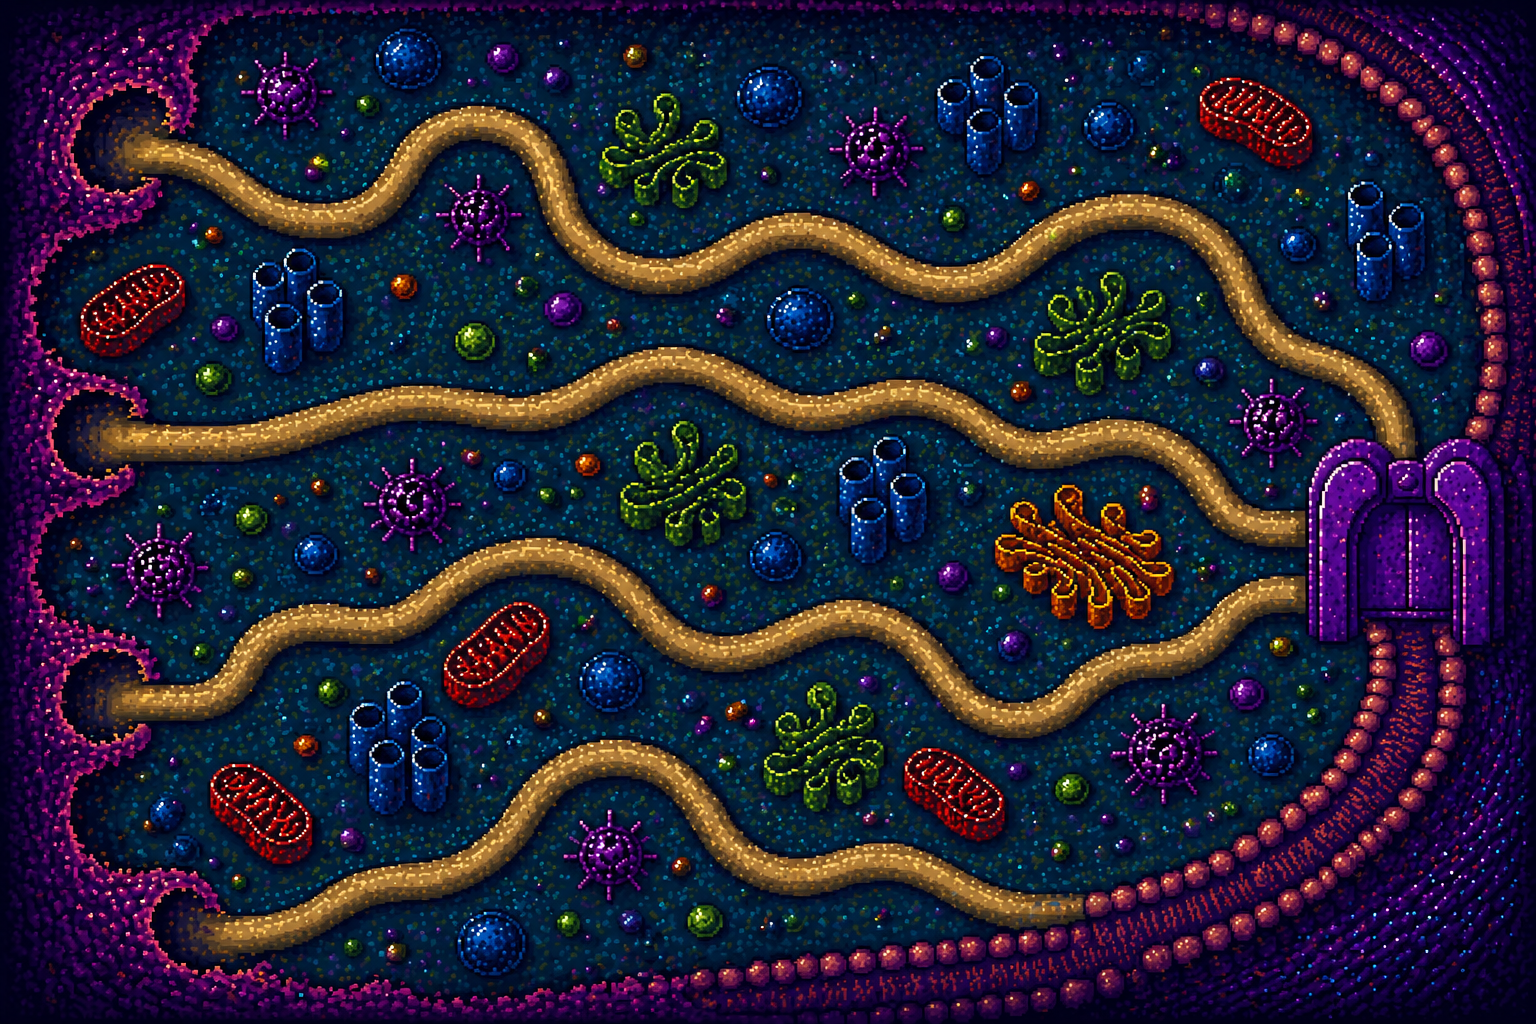
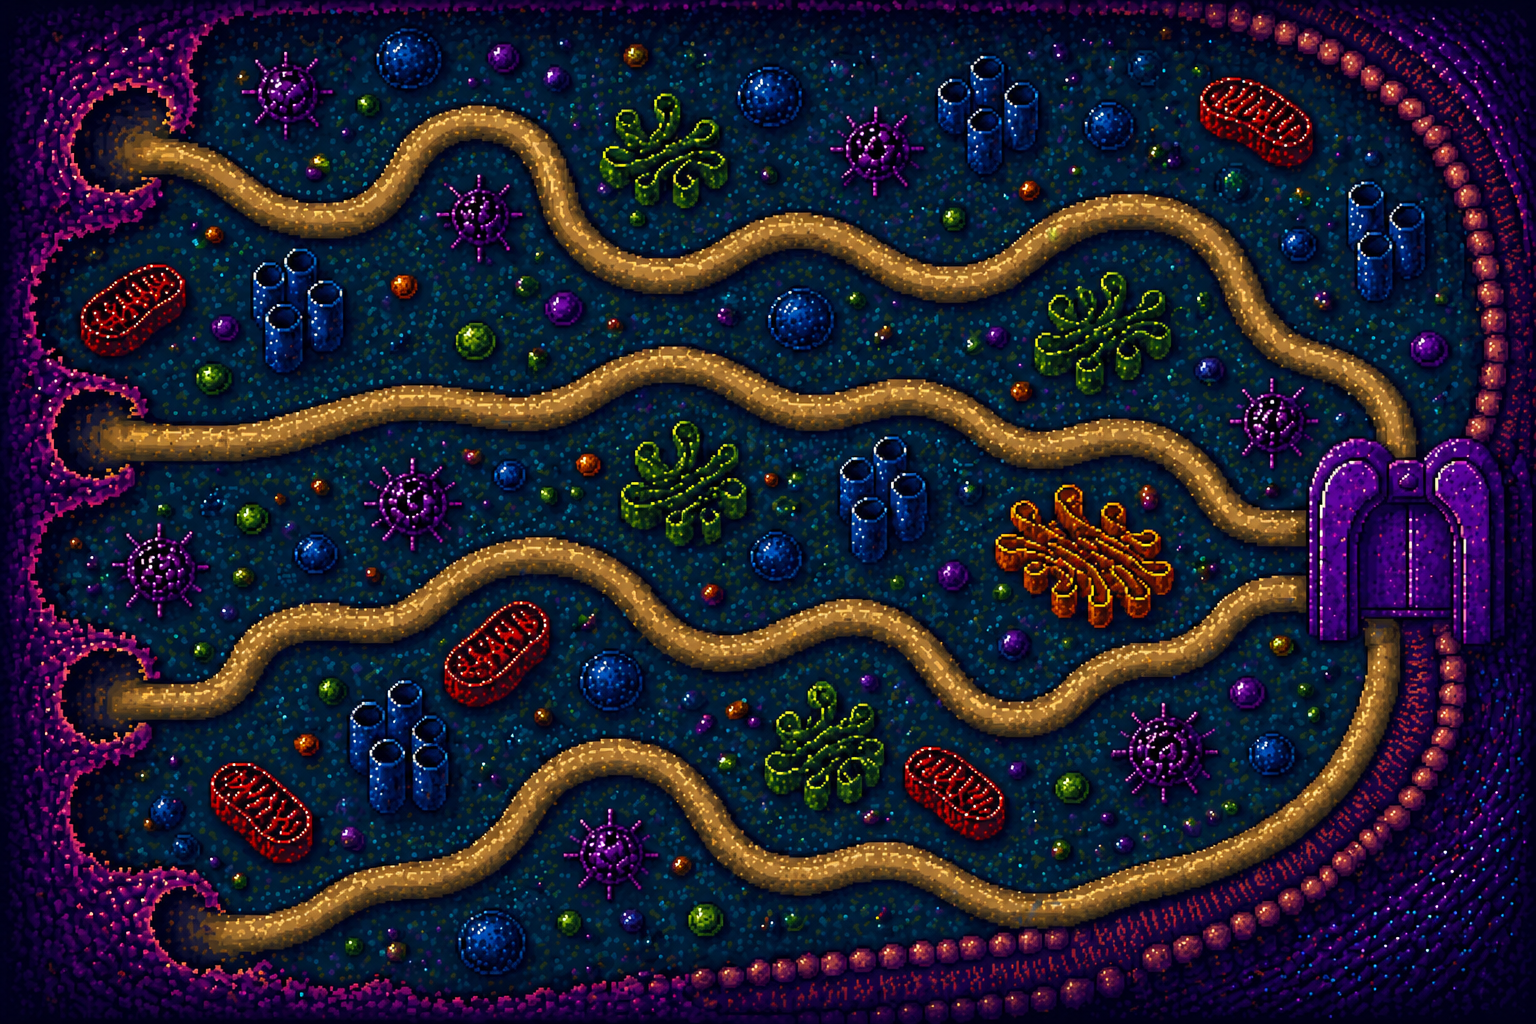
fixed viruses file paths

diff --git a/src/level2_page.ts b/src/level2_page.ts
@@ -1,3 +1,4 @@
+import { Vector } from 'matter';
 import Phaser from 'phaser';
 
 class Level2 extends Phaser.Scene {
@@ -32,7 +33,7 @@ class Level2 extends Phaser.Scene {
         this.createPaths(width, height);
 
         // 4. Disegno linee rosse di debug
-        this.drawDebugPaths();
+        //this.drawDebugPaths();
 
         // 5. Spawn dei virus
         this.time.addEvent({
@@ -57,56 +58,74 @@ class Level2 extends Phaser.Scene {
         this.paths = [];
 
         // PATH 1 - ALTO (Ricalibrato per la curva a gomito iniziale)
-        const p1 = new Phaser.Curves.Path(width * 0.08, height * 0.23);
+        const p1 = new Phaser.Curves.Path(width * 0.08, height * 0.14);
         p1.splineTo([
-            new Phaser.Math.Vector2(width * 0.18, height * 0.22), 
-            new Phaser.Math.Vector2(width * 0.24, height * 0.18), // Inizio salita
-            new Phaser.Math.Vector2(width * 0.29, height * 0.17), // CIMA della prima gobba (fondamentale)
-            new Phaser.Math.Vector2(width * 0.33, height * 0.22), // Inizio discesa rapida
-            new Phaser.Math.Vector2(width * 0.38, height * 0.38), // Curva verso il centro
-            new Phaser.Math.Vector2(width * 0.45, height * 0.48), // Punto di incrocio centrale basso
-            new Phaser.Math.Vector2(width * 0.58, height * 0.40), // Risalita verso la seconda gobba
-            new Phaser.Math.Vector2(width * 0.70, height * 0.25), // Picco alto a destra
-            new Phaser.Math.Vector2(width * 0.85, height * 0.32), 
-            new Phaser.Math.Vector2(width * 0.94, height * 0.50)  // Ingresso portale
+            new Phaser.Math.Vector2(width * 0.18, height * 0.20), 
+            new Phaser.Math.Vector2(width * 0.24, height * 0.22),
+            new Phaser.Math.Vector2(width * 0.29, height * 0.12),
+            new Phaser.Math.Vector2(width * 0.32, height * 0.11),
+            new Phaser.Math.Vector2(width * 0.34, height * 0.13),
+            new Phaser.Math.Vector2(width * 0.38, height * 0.25),
+            new Phaser.Math.Vector2(width * 0.45, height * 0.28),
+            new Phaser.Math.Vector2(width * 0.53, height * 0.21),
+            new Phaser.Math.Vector2(width * 0.62, height * 0.27),
+            new Phaser.Math.Vector2(width * 0.75, height * 0.20),
+            new Phaser.Math.Vector2(width * 0.84, height * 0.34), 
+            new Phaser.Math.Vector2(width * 0.90, height * 0.38),
+            new Phaser.Math.Vector2(width * 0.92, height * 0.48),
         ]);
         this.paths.push(p1);
 
         // PATH 2 - CENTRO-ALTO (Segue la linea marrone che passa sopra l'apparato di Golgi verde)
-        const p2 = new Phaser.Curves.Path(width * 0.08, height * 0.46);
+        const p2 = new Phaser.Curves.Path(width * 0.06, height * 0.43);
         p2.splineTo([
-            new Phaser.Math.Vector2(width * 0.20, height * 0.47),
-            new Phaser.Math.Vector2(width * 0.30, height * 0.43),
-            new Phaser.Math.Vector2(width * 0.40, height * 0.41), // Gobba sopra il verde
-            new Phaser.Math.Vector2(width * 0.55, height * 0.51), // Avvallamento
-            new Phaser.Math.Vector2(width * 0.72, height * 0.47), // Gobba sopra il Golgi arancione
-            new Phaser.Math.Vector2(width * 0.88, height * 0.48),
-            new Phaser.Math.Vector2(width * 0.94, height * 0.52)
+            new Phaser.Math.Vector2(width * 0.20, height * 0.42),
+            new Phaser.Math.Vector2(width * 0.30, height * 0.39),
+            new Phaser.Math.Vector2(width * 0.37, height * 0.40),
+            new Phaser.Math.Vector2(width * 0.43, height * 0.35),
+            new Phaser.Math.Vector2(width * 0.52, height * 0.40), 
+            new Phaser.Math.Vector2(width * 0.62, height * 0.40), 
+            new Phaser.Math.Vector2(width * 0.68, height * 0.44), 
+            new Phaser.Math.Vector2(width * 0.75, height * 0.42), 
+            new Phaser.Math.Vector2(width * 0.80, height * 0.50), 
+            new Phaser.Math.Vector2(width * 0.85, height * 0.52),
+            new Phaser.Math.Vector2(width * 0.90, height * 0.52)
         ]);
         this.paths.push(p2);
 
         // PATH 3 - CENTRO-BASSO (Passa sopra il mitocondrio rosso centrale)
-        const p3 = new Phaser.Curves.Path(width * 0.08, height * 0.69);
+        const p3 = new Phaser.Curves.Path(width * 0.06, height * 0.69);
         p3.splineTo([
-            new Phaser.Math.Vector2(width * 0.20, height * 0.65),
-            new Phaser.Math.Vector2(width * 0.35, height * 0.58), // Picco sopra il mitocondrio
-            new Phaser.Math.Vector2(width * 0.48, height * 0.65), // Discesa
-            new Phaser.Math.Vector2(width * 0.62, height * 0.77), // Punto basso tra i due organelli
-            new Phaser.Math.Vector2(width * 0.78, height * 0.76), // Segue la curva piatta
-            new Phaser.Math.Vector2(width * 0.88, height * 0.68), // Risalita finale
-            new Phaser.Math.Vector2(width * 0.94, height * 0.63)
+            new Phaser.Math.Vector2(width * 0.13, height * 0.68), 
+            new Phaser.Math.Vector2(width * 0.18, height * 0.62), 
+            new Phaser.Math.Vector2(width * 0.23, height * 0.60),
+            new Phaser.Math.Vector2(width * 0.27, height * 0.60),
+            new Phaser.Math.Vector2(width * 0.35, height * 0.54),
+            new Phaser.Math.Vector2(width * 0.46, height * 0.64),
+            new Phaser.Math.Vector2(width * 0.55, height * 0.61),
+            new Phaser.Math.Vector2(width * 0.60, height * 0.63),
+            new Phaser.Math.Vector2(width * 0.66, height * 0.71),
+            new Phaser.Math.Vector2(width * 0.73, height * 0.65),
+            new Phaser.Math.Vector2(width * 0.78, height * 0.63),
+            new Phaser.Math.Vector2(width * 0.83, height * 0.58),
+            new Phaser.Math.Vector2(width * 0.88, height * 0.58),
+            new Phaser.Math.Vector2(width * 0.90, height * 0.58)
         ]);
         this.paths.push(p3);
 
         // PATH 4 - BASSO (La linea più in basso di tutte)
-        const p4 = new Phaser.Curves.Path(width * 0.08, height * 0.88);
+        const p4 = new Phaser.Curves.Path(width * 0.12, height * 0.91);
         p4.splineTo([
-            new Phaser.Math.Vector2(width * 0.25, height * 0.85),
-            new Phaser.Math.Vector2(width * 0.38, height * 0.75), // Picco sopra l'organello viola
-            new Phaser.Math.Vector2(width * 0.55, height * 0.85), // Discesa
-            new Phaser.Math.Vector2(width * 0.72, height * 0.88), // Segue il bordo inferiore
-            new Phaser.Math.Vector2(width * 0.88, height * 0.82), // Risalita verso portale
-            new Phaser.Math.Vector2(width * 0.94, height * 0.68)
+            new Phaser.Math.Vector2(width * 0.18, height * 0.91),
+            new Phaser.Math.Vector2(width * 0.25, height * 0.86),
+            new Phaser.Math.Vector2(width * 0.30, height * 0.85),
+            new Phaser.Math.Vector2(width * 0.38, height * 0.75),
+            new Phaser.Math.Vector2(width * 0.43, height * 0.75),
+            new Phaser.Math.Vector2(width * 0.50, height * 0.86),
+            new Phaser.Math.Vector2(width * 0.58, height * 0.84),
+            new Phaser.Math.Vector2(width * 0.69, height * 0.89),
+            new Phaser.Math.Vector2(width * 0.86, height * 0.78), // Risalita verso portale
+            new Phaser.Math.Vector2(width * 0.90, height * 0.60)
         ]);
         this.paths.push(p4);
     }
